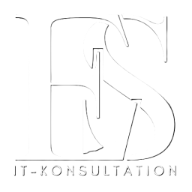
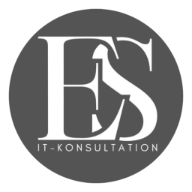
added new favi

diff --git a/style.css b/style.css
@@ -690,7 +690,6 @@
 
 
 /* Location section with full-width background */
-/* Location section with full-width background */
 .location {
     width: 100%;               
     background-color: #d8d8d8; /* Full-width gray background */
